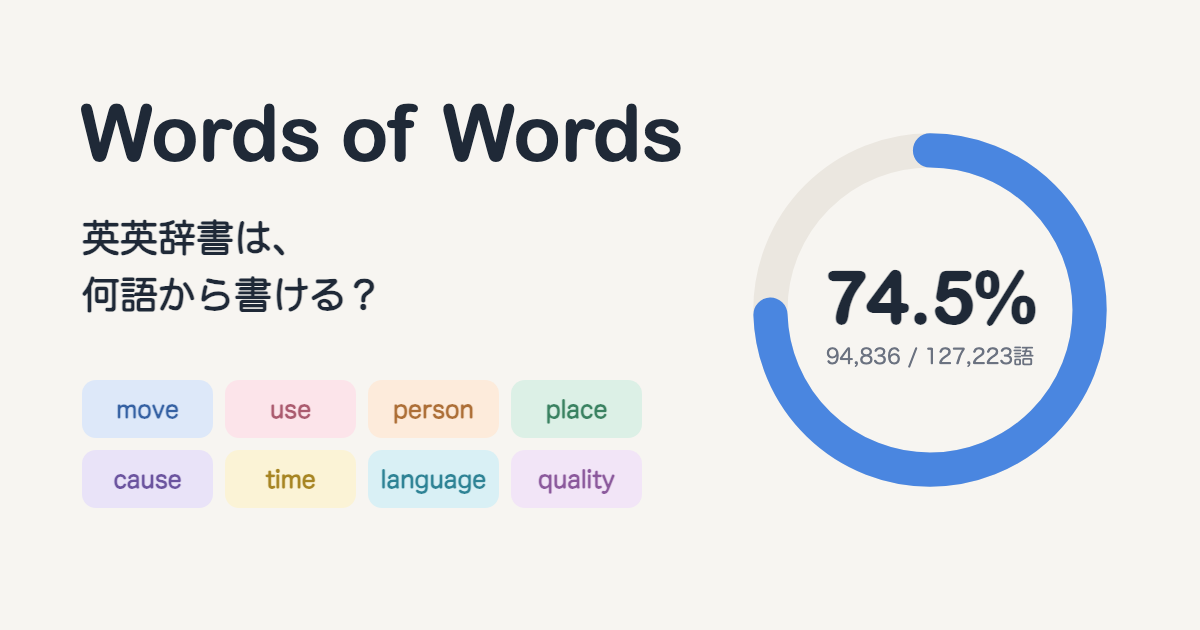
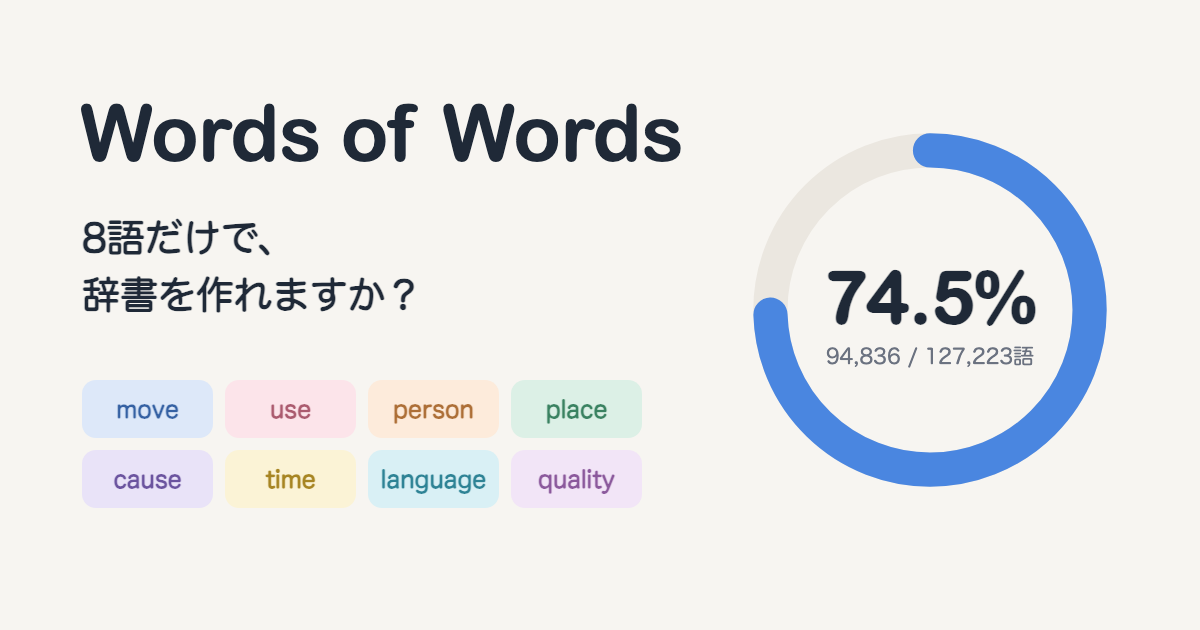
扉の見出しを「8語だけで、辞書を作れますか？」に変える

Changed region(s): [[0.0617, 0.3317, 0.3392, 0.5127]]

diff --git a/game/index.html b/game/index.html
@@ -13,7 +13,7 @@
 <meta property="og:image" content="https://konaito.github.io/words-of-words/card.png">
 <meta property="og:image:width" content="1200">
 <meta property="og:image:height" content="630">
-<meta property="og:image:alt" content="Words of Words。英英辞書は、何語から書ける？">
+<meta property="og:image:alt" content="Words of Words。8語だけで、辞書を作れますか？">
 <meta name="twitter:card" content="summary_large_image">
 <meta name="twitter:title" content="Words of Words">
 <meta name="twitter:description" content="8つの英単語を種にして、127,223語の英英辞書を言葉だけでどこまで書けるかを試すゲーム。">
@@ -314,7 +314,7 @@ button:focus-visible, input:focus-visible { outline: 2px solid var(--blue); outl
 
   const T = {
     ja: {
-      doorHead: "英英辞書は、<br>何語から書ける？",
+      doorHead: "8語だけで、<br>辞書を作れますか？",
       doorBody: "英英辞書の中で、少ない種語から<br>どれだけの言葉にたどり着けるか。<br>定義のつながりをたどるゲームです。",
       doorTag: "Start with a few words.<br>See how far they reach.",
       start: "はじめる", howto: "遊び方", close: "閉じる",
@@ -359,7 +359,7 @@ button:focus-visible, input:focus-visible { outline: 2px solid var(--blue); outl
       credit: "辞書 Open English WordNet 2025（CC BY 4.0）",
     },
     en: {
-      doorHead: "How few words<br>write a dictionary?",
+      doorHead: "Can you write a dictionary<br>with just 8 words?",
       doorBody: "Start from a handful of seed words and see<br>how many entries of an English dictionary<br>you can reach by following definitions.",
       doorTag: "Start with a few words.<br>See how far they reach.",
       start: "Start", howto: "How to play", close: "Close",

diff --git a/tools/card.html b/tools/card.html
@@ -24,7 +24,7 @@ html, body { margin: 0; width: 1200px; height: 630px; background: var(--bg); ove
 <body>
 <div class="card">
   <div class="title">Words of Words</div>
-  <div class="sub">英英辞書は、<br>何語から書ける？</div>
+  <div class="sub">8語だけで、<br>辞書を作れますか？</div>
   <div class="chips">
     <span style="background:#dde8f9;color:#3561a3">move</span><span style="background:#fce4ea;color:#ab5b6f">use</span><span style="background:#fdebdb;color:#ad6f37">person</span><span style="background:#dcf0e6;color:#3a8261">place</span>
     <span style="background:#e9e3f8;color:#6b549f">cause</span><span style="background:#fbf3d6;color:#a78523">time</span><span style="background:#d9f0f5;color:#2e8395">language</span><span style="background:#f2e5f7;color:#8b599c">quality</span>
